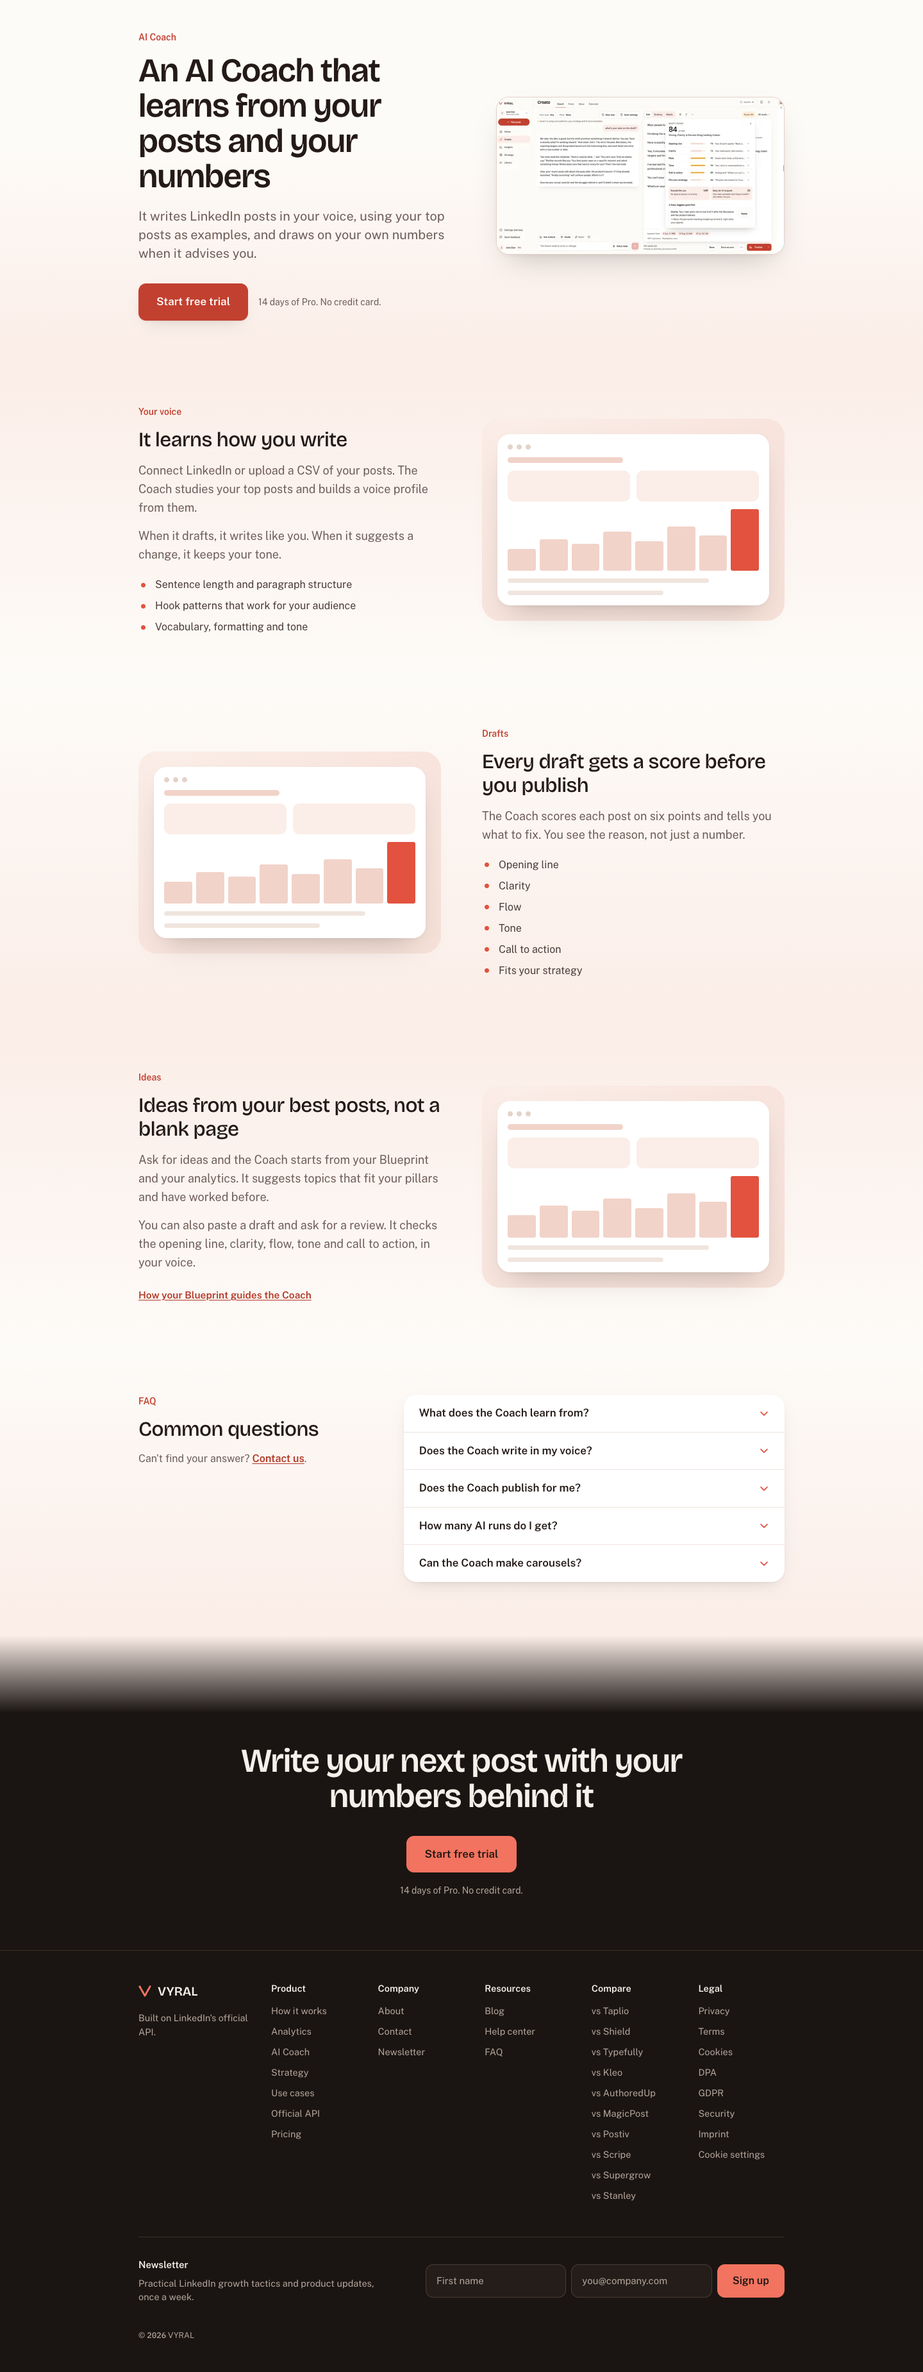
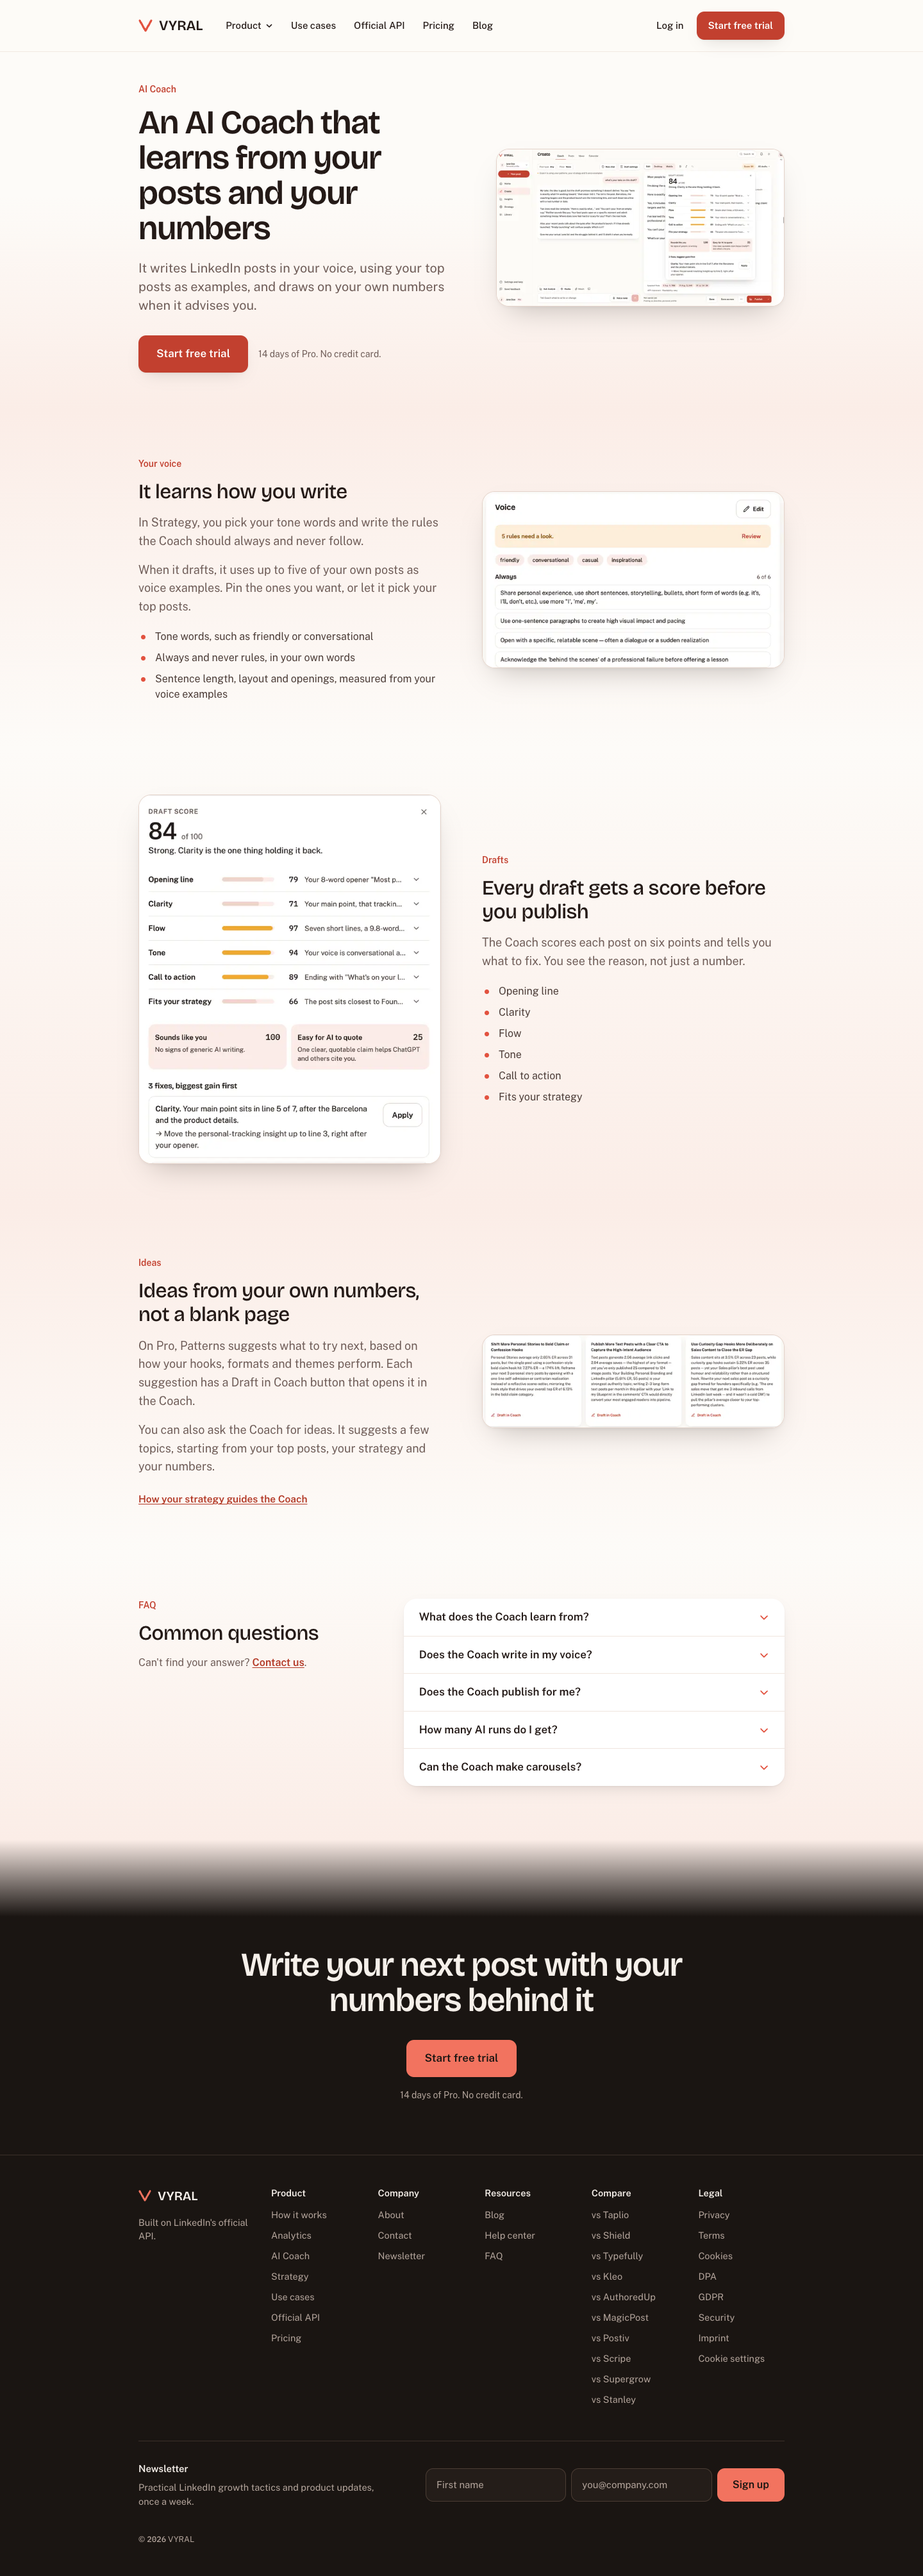
Coach close-up screens on /ai-coach and /how-vyral-works (#12)

diff --git a/src/components/site/AppScreen.tsx b/src/components/site/AppScreen.tsx
@@ -1,9 +1,14 @@
 import Image from "next/image";
 import { cx } from "@/lib/cx";
 
-// Real screens from the app, in public/screens/. Each file is 2400 px wide, so it is never
-// shown larger than its own width. `m` is where the image is cropped to on mobile (below
-// 860px), where it sits full width under the text at 4:3.
+// Real screens from the app, in public/screens/. Full screens are 2400 px wide, so they are
+// never shown larger than their own width. `m` is where the image is cropped to on mobile
+// (below 860px), where it sits full width under the text at 4:3.
+//
+// Close-ups (`natural`) have their own width `w` and keep their own shape everywhere: no
+// crop on desktop or mobile, and never wider than the file itself.
+
+type Screen = { h: number; alt: string; m?: string; w?: number; natural?: boolean };
 
 const SCREENS = {
   "content-calendar": {
@@ -61,7 +66,31 @@ const SCREENS = {
     m: "70% 0%",
     alt: "VYRAL settings showing LinkedIn publishing and analytics connected",
   },
-} as const;
+  "coach-voice-rules": {
+    w: 990,
+    h: 576,
+    natural: true,
+    alt: "VYRAL voice settings with tone words and the rules the Coach always follows",
+  },
+  "coach-score-panel": {
+    w: 748,
+    h: 914,
+    natural: true,
+    alt: "VYRAL draft score of 84 with scores for opening line, clarity, flow, tone, call to action and fit with your strategy",
+  },
+  "coach-ideas-try-next": {
+    w: 1610,
+    h: 494,
+    natural: true,
+    alt: "VYRAL suggestions for what to post next, each with a button to draft it in the Coach",
+  },
+  "coach-write-publish": {
+    w: 1980,
+    h: 1120,
+    natural: true,
+    alt: "VYRAL Coach chat next to a draft, with the Publish button",
+  },
+} satisfies Record<string, Screen>;
 
 export type ScreenName = keyof typeof SCREENS;
 
@@ -93,12 +122,15 @@ export default function AppScreen({
   onDark?: boolean;
   className?: string;
 }) {
-  const s = SCREENS[name];
-  const desktop = ratio ?? W / s.h;
+  const s: Screen = SCREENS[name];
+  const w = s.w ?? W;
+  const desktop = ratio ?? w / s.h;
   return (
     <div
+      style={s.natural ? { maxWidth: w } : undefined}
       className={cx(
         "overflow-hidden rounded-lg border",
+        s.natural && "mx-auto w-full",
         onDark ? "border-band-hairline-strong shadow-band-2" : "border-hairline-strong shadow-2",
         className,
       )}
@@ -106,18 +138,24 @@ export default function AppScreen({
       <Image
         src={`/screens/${name}.png`}
         alt={s.alt}
-        width={W}
+        width={w}
         height={s.h}
         sizes={sizes}
         priority={priority}
         style={
-          {
-            "--vy-ar": desktop,
-            "--vy-pos-m": s.m,
-            "--vy-pos-d": position ?? "50% 0%",
-          } as React.CSSProperties
+          s.natural
+            ? undefined
+            : ({
+                "--vy-ar": desktop,
+                "--vy-pos-m": s.m,
+                "--vy-pos-d": position ?? "50% 0%",
+              } as React.CSSProperties)
         }
-        className="block aspect-[4/3] w-full object-cover object-[var(--vy-pos-m)] desk:aspect-[var(--vy-ar)] desk:object-[var(--vy-pos-d)]"
+        className={
+          s.natural
+            ? "block h-auto w-full"
+            : "block aspect-[4/3] w-full object-cover object-[var(--vy-pos-m)] desk:aspect-[var(--vy-ar)] desk:object-[var(--vy-pos-d)]"
+        }
       />
     </div>
   );

diff --git a/src/app/(site)/ai-coach/page.tsx b/src/app/(site)/ai-coach/page.tsx
@@ -19,29 +19,32 @@ const content: FeaturePageContent = {
       label: "Your voice",
       title: "It learns how you write",
       body: [
-        "Connect LinkedIn or upload a CSV of your posts. The Coach studies your top posts and builds a voice profile from them.",
-        "When it drafts, it writes like you. When it suggests a change, it keeps your tone.",
+        "In Strategy, you pick your tone words and write the rules the Coach should always and never follow.",
+        "When it drafts, it uses up to five of your own posts as voice examples. Pin the ones you want, or let it pick your top posts.",
       ],
       points: [
-        "Sentence length and paragraph structure",
-        "Hook patterns that work for your audience",
-        "Vocabulary, formatting and tone",
+        "Tone words, such as friendly or conversational",
+        "Always and never rules, in your own words",
+        "Sentence length, layout and openings, measured from your voice examples",
       ],
+      screen: "coach-voice-rules",
     },
     {
       label: "Drafts",
       title: "Every draft gets a score before you publish",
       body: ["The Coach scores each post on six points and tells you what to fix. You see the reason, not just a number."],
       points: ["Opening line", "Clarity", "Flow", "Tone", "Call to action", "Fits your strategy"],
+      screen: "coach-score-panel",
     },
     {
       label: "Ideas",
-      title: "Ideas from your best posts, not a blank page",
+      title: "Ideas from your own numbers, not a blank page",
       body: [
-        "Ask for ideas and the Coach starts from your Blueprint and your analytics. It suggests topics that fit your pillars and have worked before.",
-        "You can also paste a draft and ask for a review. It checks the opening line, clarity, flow, tone and call to action, in your voice.",
+        `On ${pro.name}, Patterns suggests what to try next, based on how your hooks, formats and themes perform. Each suggestion has a Draft in Coach button that opens it in the Coach.`,
+        "You can also ask the Coach for ideas. It suggests a few topics, starting from your top posts, your strategy and your numbers.",
       ],
-      link: { label: "How your Blueprint guides the Coach", href: "/linkedin-content-strategy" },
+      link: { label: "How your strategy guides the Coach", href: "/linkedin-content-strategy" },
+      screen: "coach-ideas-try-next",
     },
   ],
   faq: [
@@ -52,7 +55,7 @@ const content: FeaturePageContent = {
     {
       question: "Does the Coach write in my voice?",
       answer:
-        "Yes. It builds a voice profile from your top posts: sentence length, hooks, formatting, vocabulary and tone. Drafts start from that profile, and you edit them before anything is published.",
+        "Yes. It follows your tone words and your always and never rules, and uses up to five of your posts as voice examples. Drafts start from those, and you edit them before anything is published.",
     },
     {
       question: "Does the Coach publish for me?",

diff --git a/src/app/(site)/how-vyral-works/page.tsx b/src/app/(site)/how-vyral-works/page.tsx
@@ -61,6 +61,7 @@ const content: FeaturePageContent = {
         "Posts you publish through VYRAL keep their text and update their numbers on their own. There is nothing extra to do.",
       ],
       link: { label: "Meet the AI Coach", href: "/ai-coach" },
+      screen: "coach-write-publish",
     },
     {
       label: "Measure",
